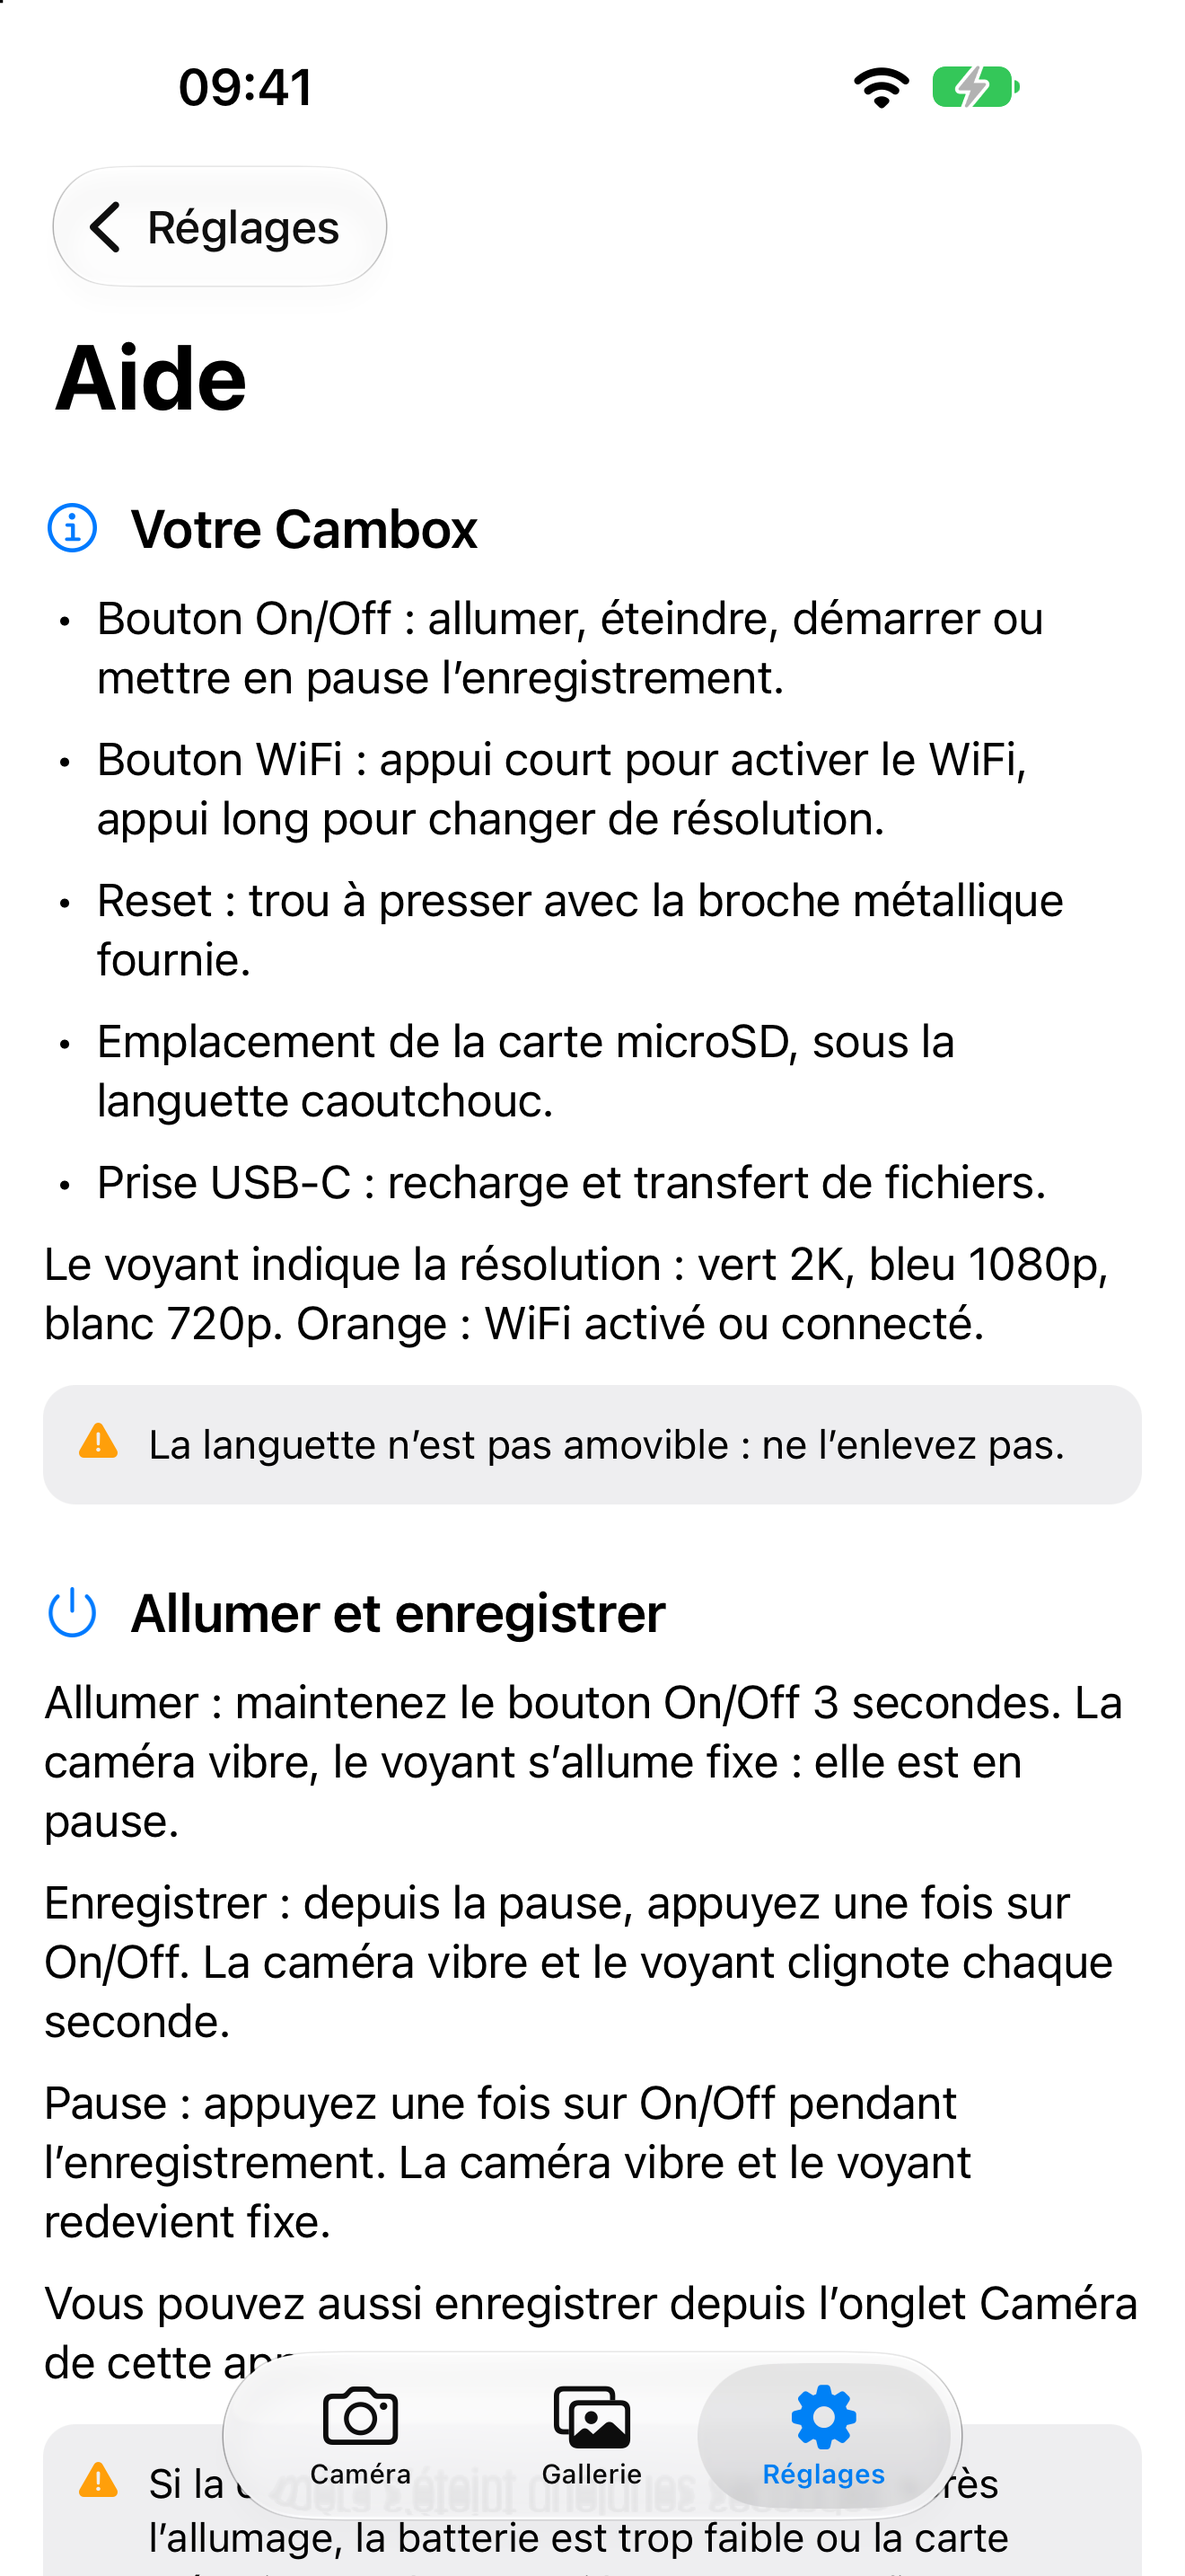
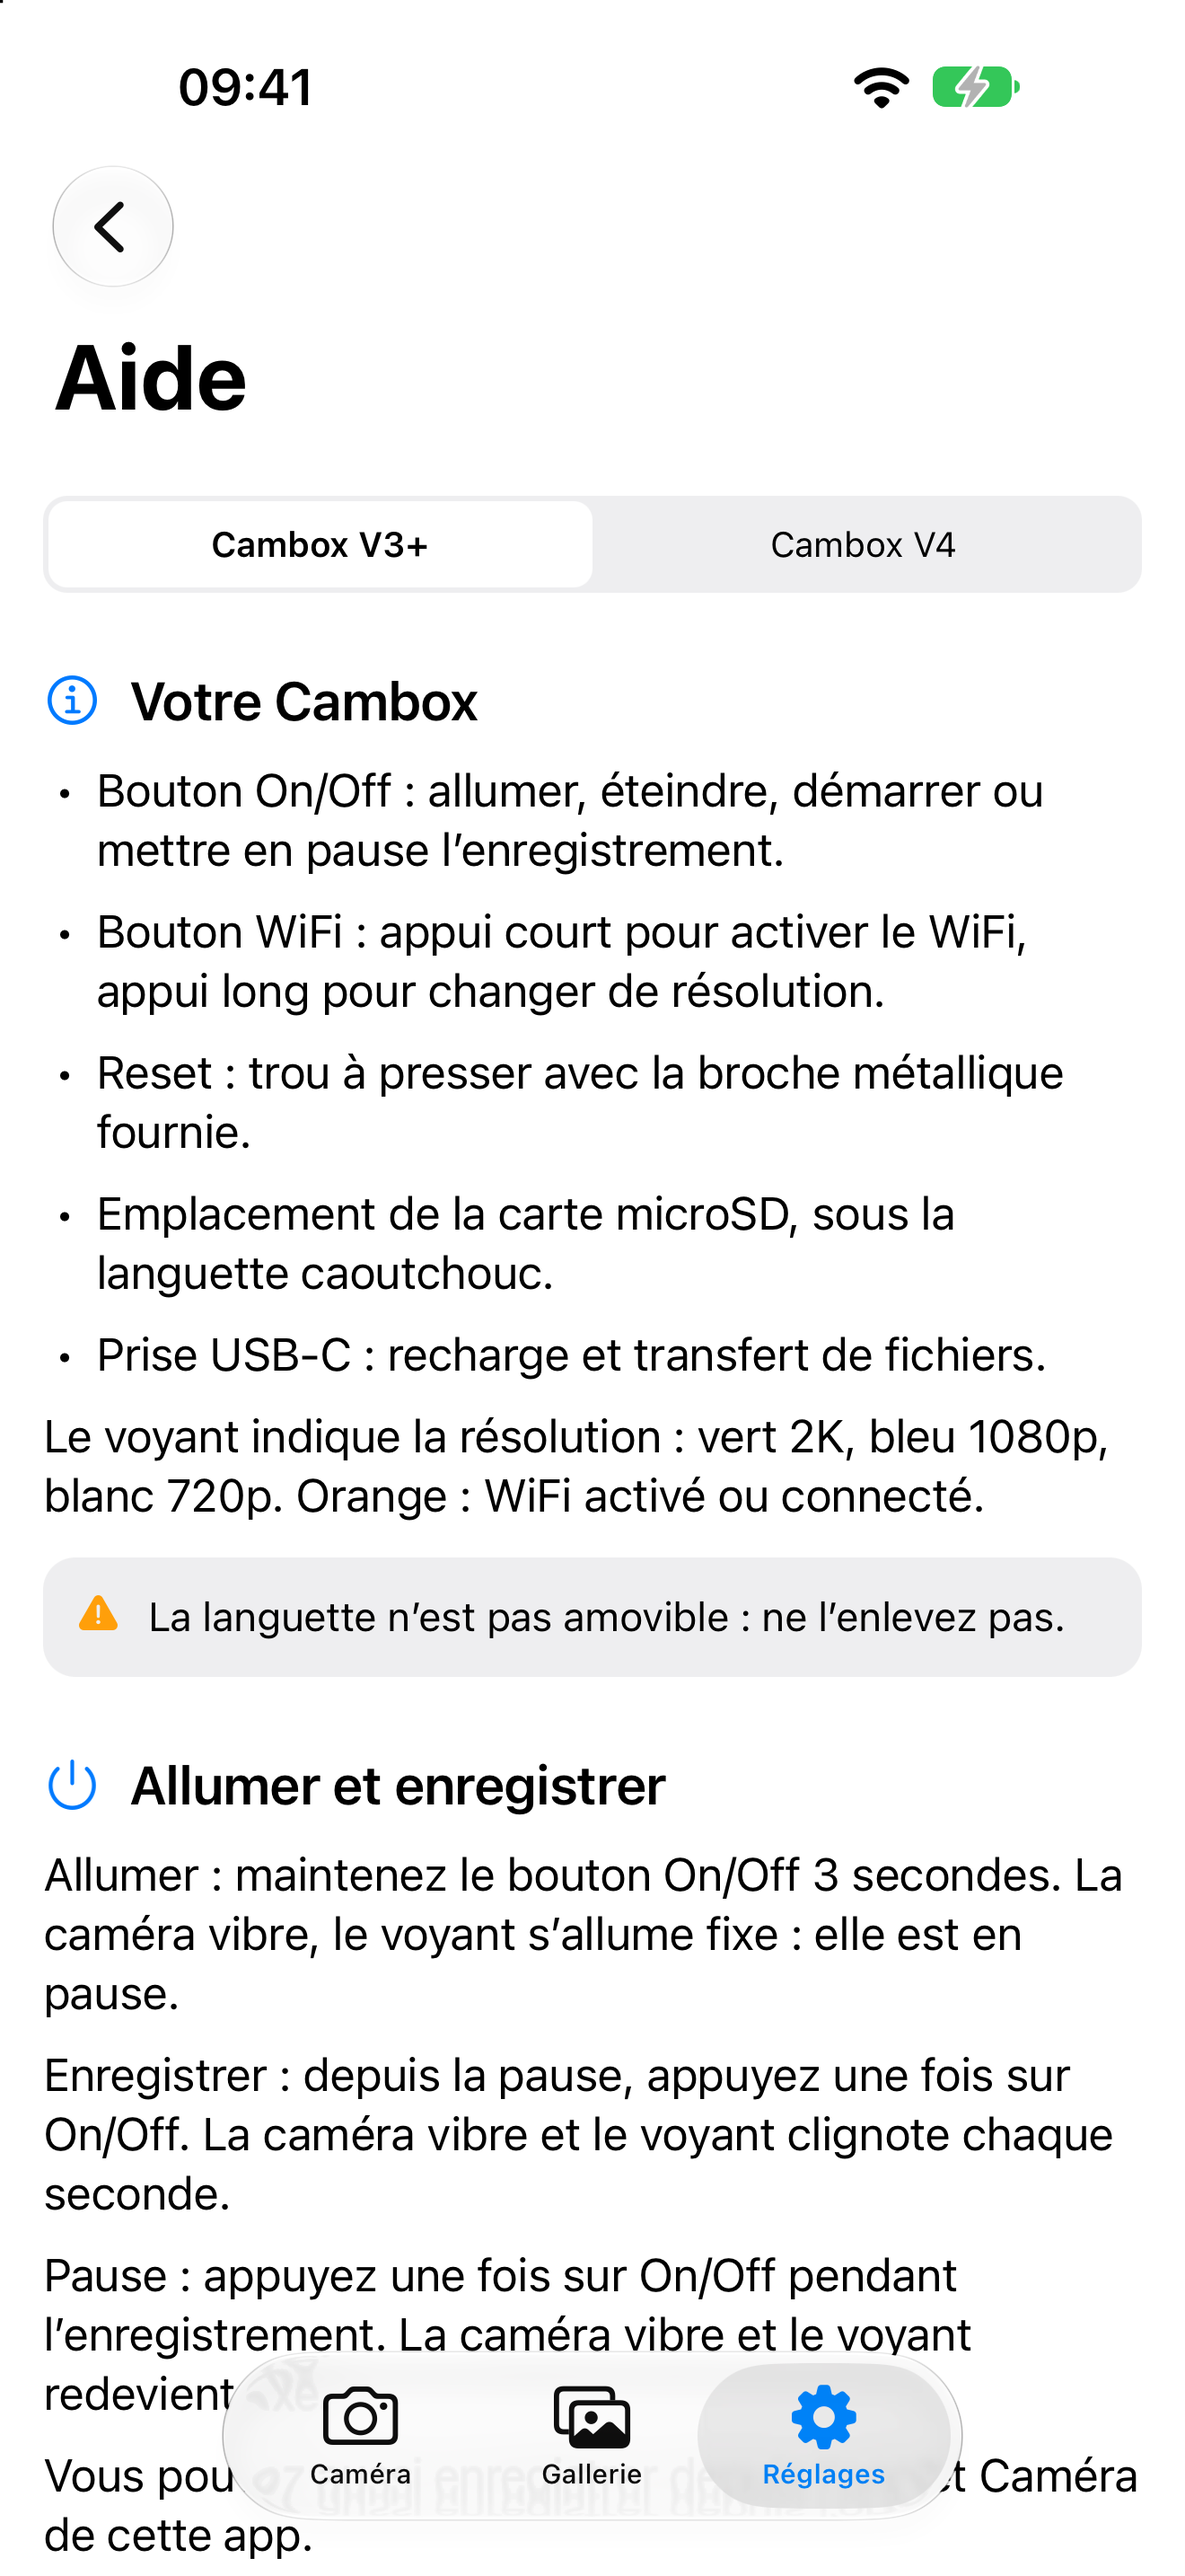
Update help images and references for Cambox V3+ and V4 manuals

diff --git a/docs/en/index.html b/docs/en/index.html
@@ -290,8 +290,8 @@
         <article class="feature feature--flip reveal">
           <figure class="phone">
             <picture>
-              <source srcset="../img/help-dark.webp?v=4" media="(prefers-color-scheme: dark)">
-              <img src="../img/help-light.webp?v=4" alt="Caméra Casque Help screen: built-in Cambox V3+ manual" width="640" height="1391" loading="lazy">
+              <source srcset="../img/help-dark.webp?v=5" media="(prefers-color-scheme: dark)">
+              <img src="../img/help-light.webp?v=5" alt="Caméra Casque Help screen: built-in Cambox V3+ and V4 manuals, one tap apart" width="640" height="1391" loading="lazy">
             </picture>
           </figure>
           <div class="feature__copy">

diff --git a/docs/index.html b/docs/index.html
@@ -290,8 +290,8 @@
         <article class="feature feature--flip reveal">
           <figure class="phone">
             <picture>
-              <source srcset="img/help-dark.webp?v=4" media="(prefers-color-scheme: dark)">
-              <img src="img/help-light.webp?v=4" alt="Caméra Casque, écran Aide : manuel de la Cambox V3+ intégré" width="640" height="1391" loading="lazy">
+              <source srcset="img/help-dark.webp?v=5" media="(prefers-color-scheme: dark)">
+              <img src="img/help-light.webp?v=5" alt="Caméra Casque, écran Aide : manuels des Cambox V3+ et V4 intégrés, au choix" width="640" height="1391" loading="lazy">
             </picture>
           </figure>
           <div class="feature__copy">
